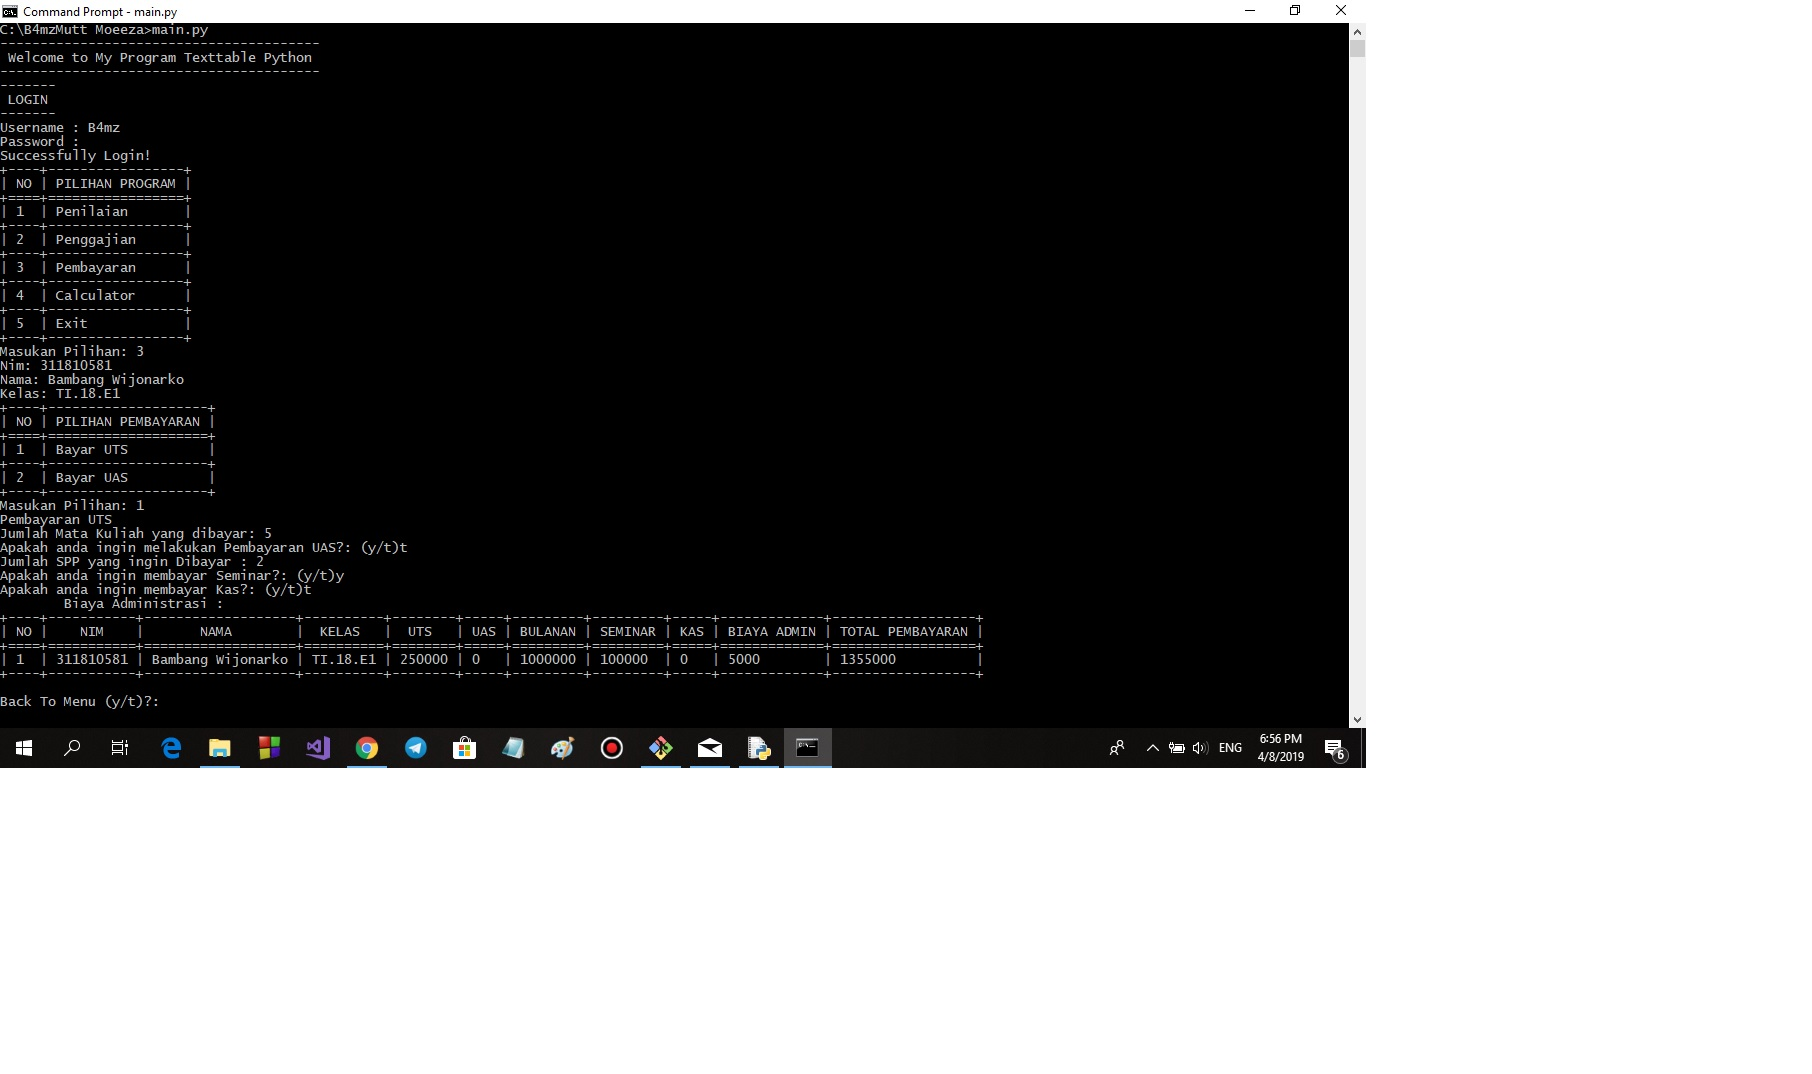
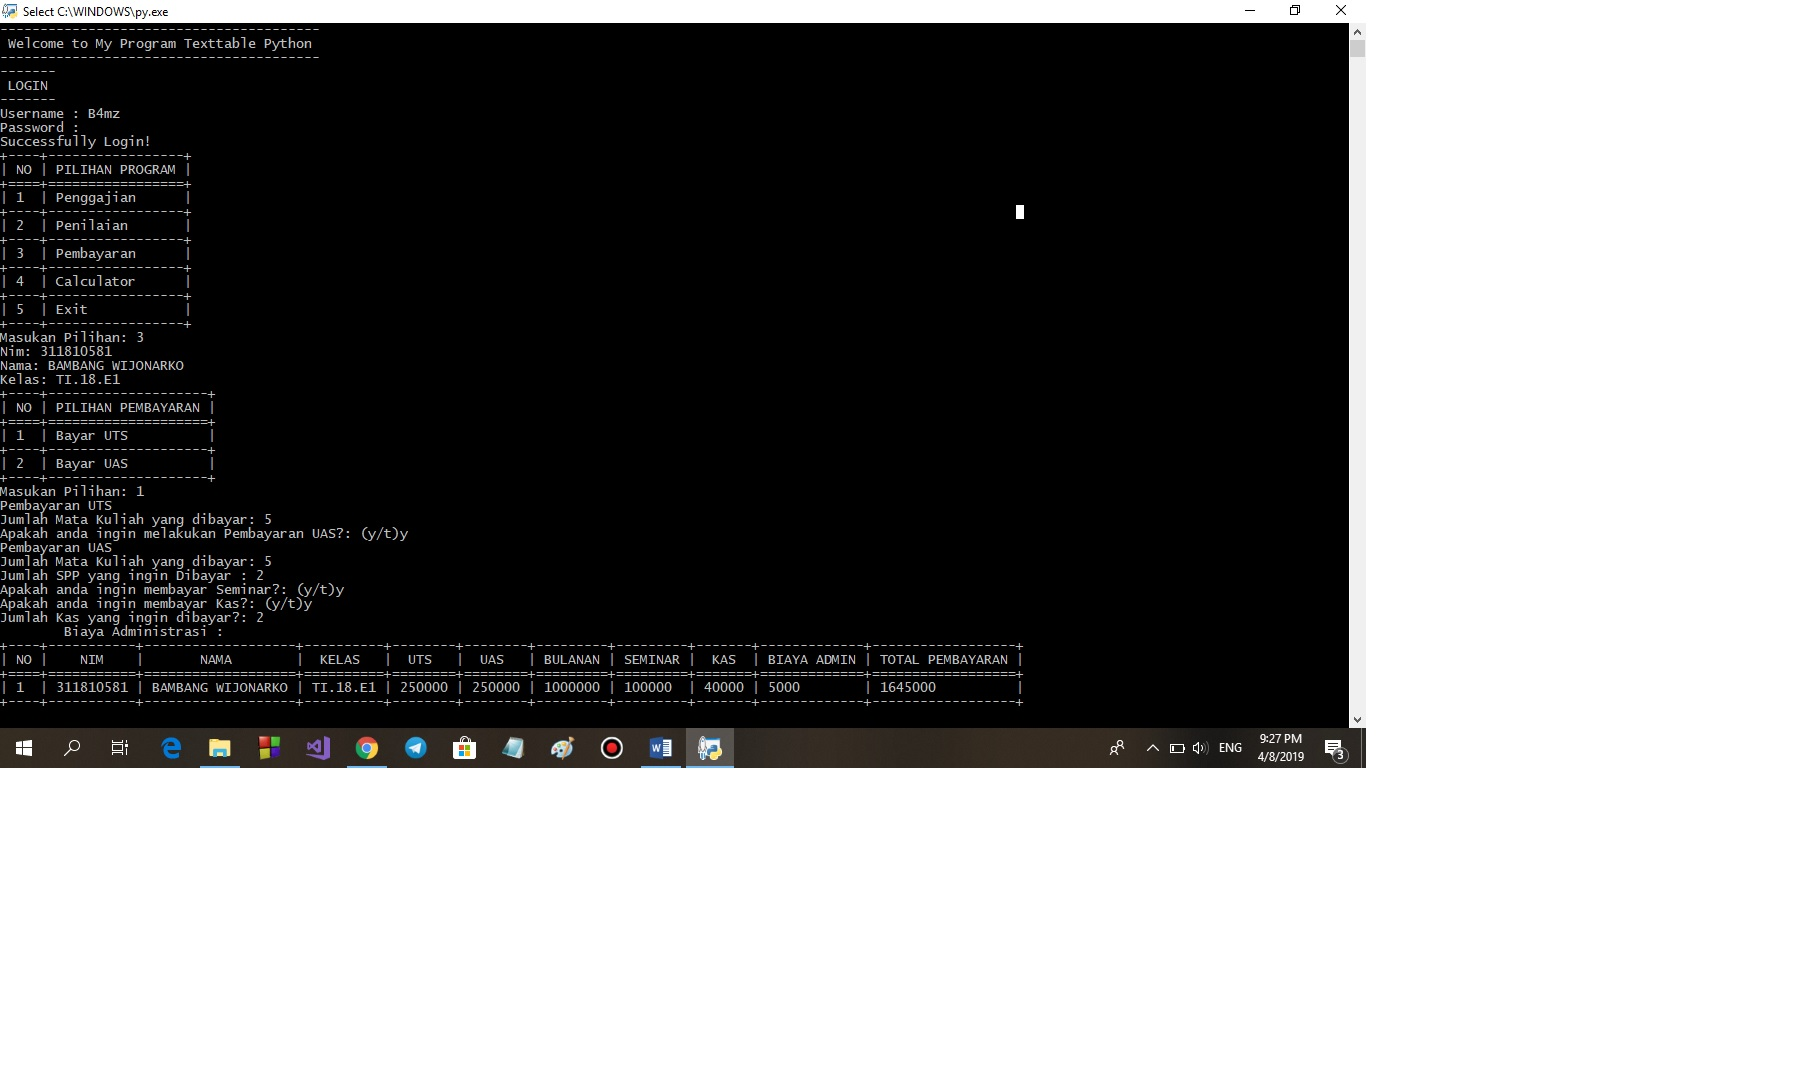
screen-02

Changed region(s): [[0.0, 0.0, 0.5563, 0.7374], [0.3091, 0.676, 0.649, 0.7374], [0.6799, 0.676, 0.7726, 0.7374]]

diff --git a/Program/menu.py b/Program/menu.py
@@ -1,6 +1,6 @@
 def menu():
     from texttable import Texttable
     table = Texttable ()
-    table.add_rows([['NO','PILIHAN PROGRAM'],['1','Penilaian'],['2','Penggajian'],['3','Pembayaran'],['4','Calculator'],['5','Exit']])
+    table.add_rows([['NO','PILIHAN PROGRAM'],['1','Penggajian'],['2','Penilaian'],['3','Pembayaran'],['4','Calculator'],['5','Exit']])
     print (table.draw())
    
